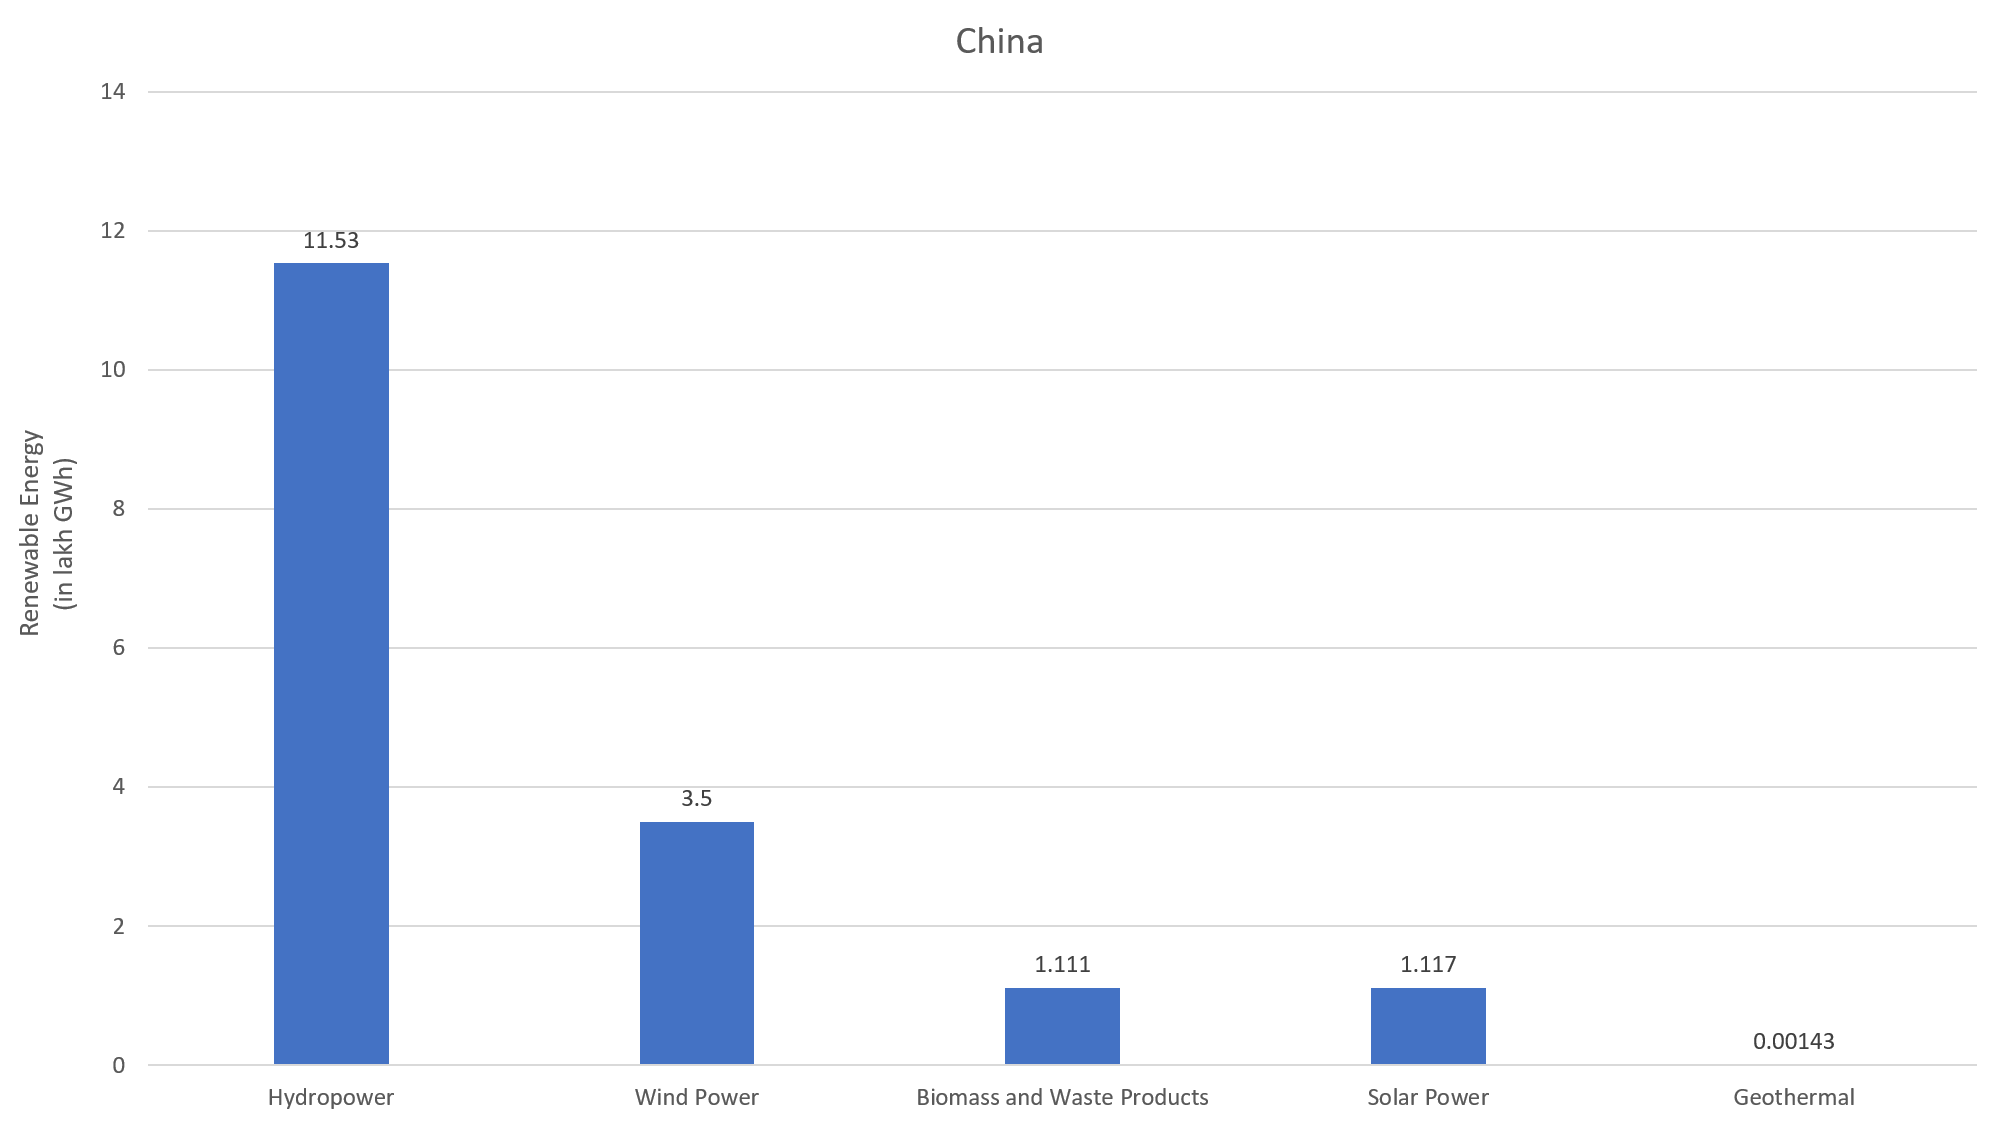
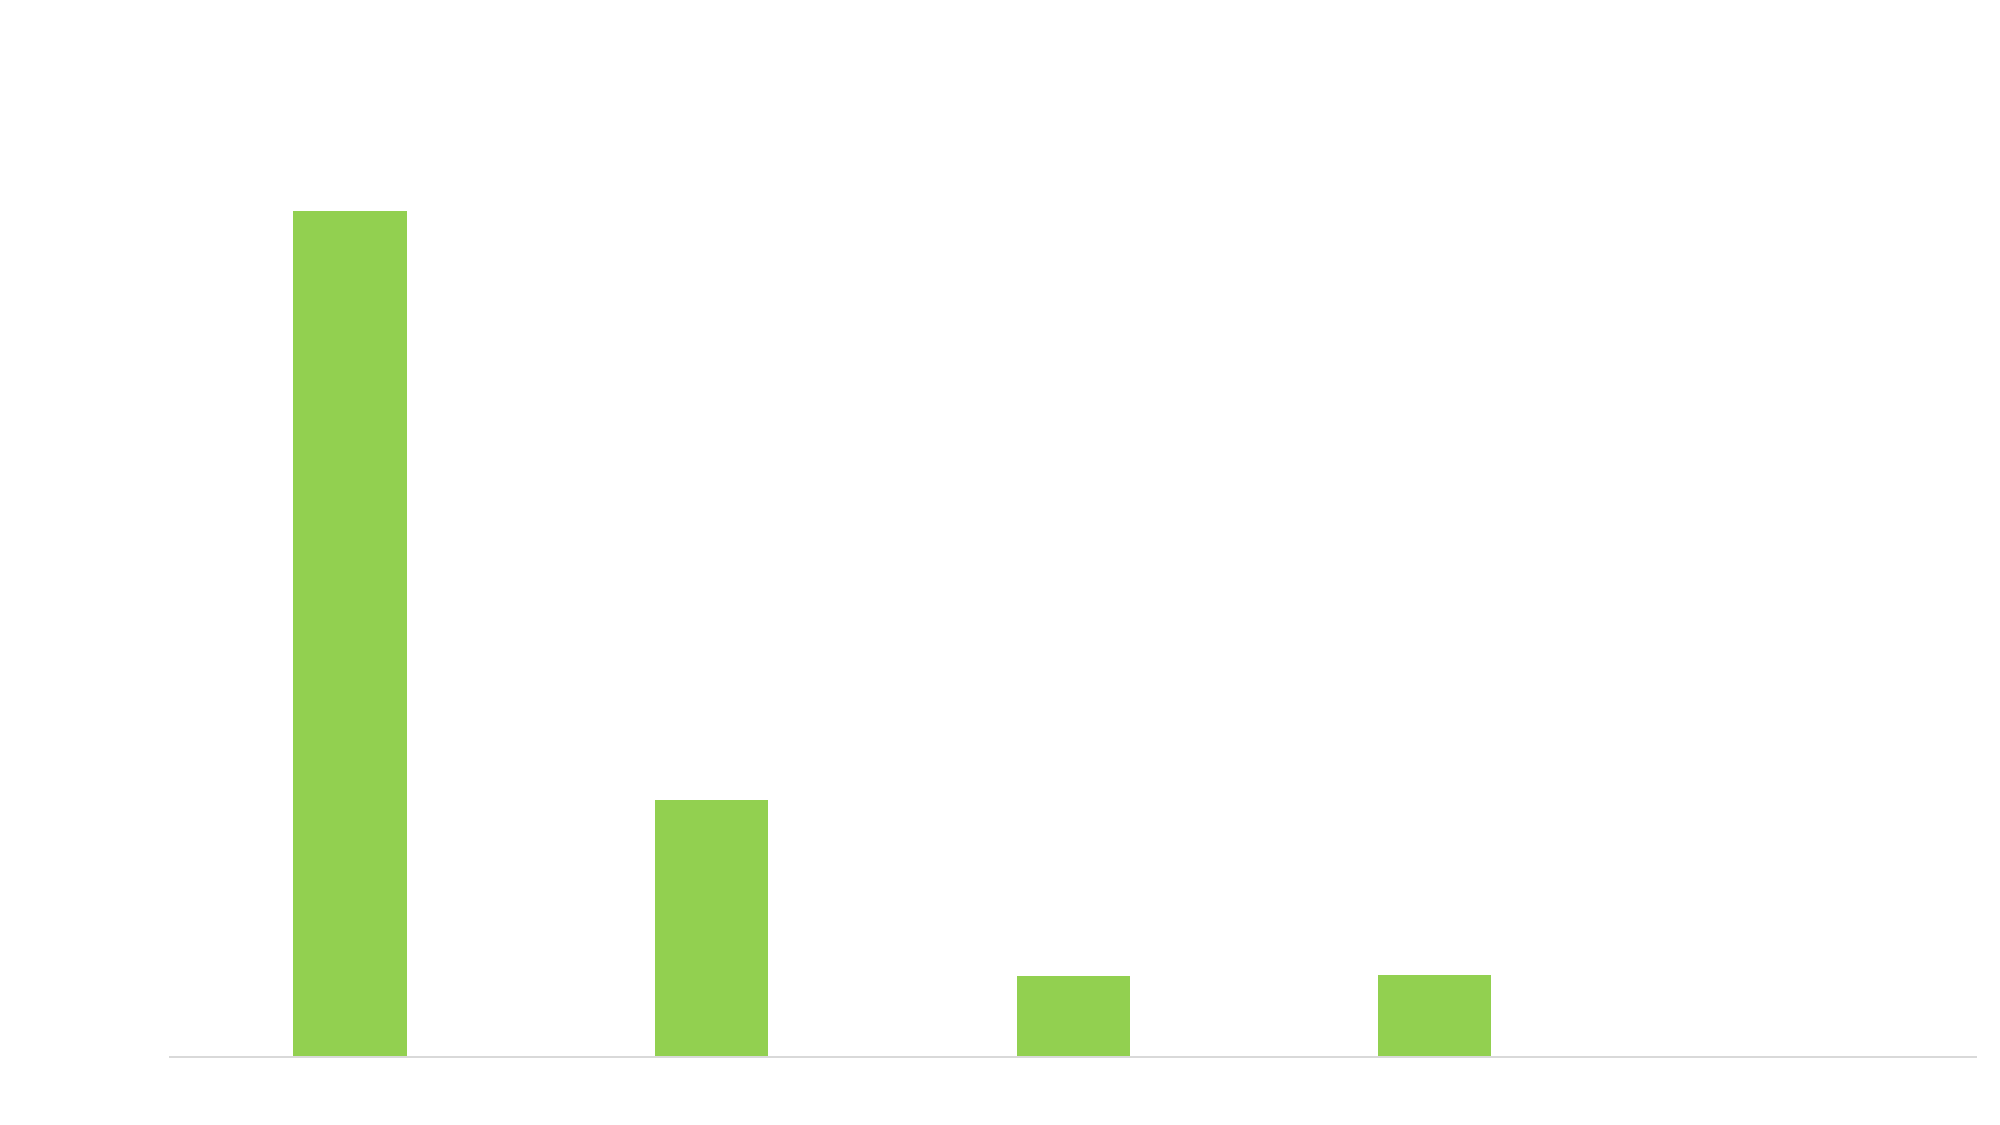
science update

Changed region(s): [[0.093, 0.1867, 0.992, 0.9956], [0.0, 0.3733, 0.062, 0.56], [0.465, 0.0311, 0.527, 0.0622]]

diff --git a/HTML/computer-hhw.html b/HTML/computer-hhw.html
@@ -1,23 +1,23 @@
 <!DOCTYPE html>
 <html lang="en">
 <head>
-    <meta charset="UTF-8">
-    <meta http-equiv="X-UA-Compatible" content="IE=edge">
-    <meta name="viewport" content="width=device-width, initial-scale=1.0">
-    <title>Science HHW</title>
+	<meta charset="UTF-8">
+	<meta http-equiv="X-UA-Compatible" content="IE=edge">
+	<meta name="viewport" content="width=device-width, initial-scale=1.0">
+	<title>Document</title>
 
 	<script src="https://kit.fontawesome.com/84c7f42d8e.js"></script>
-    <link rel="stylesheet" href="../SCSS/Subjects/science-hhw.css">
+    <link rel="stylesheet" href="../SCSS/Subjects/computer-hhw.css">
     <link rel="stylesheet" href="../SCSS/Subjects/hhw-header.css">
     <link rel="stylesheet" href="../SCSS/Subjects/hhw-footer.css">
 	<link rel="icon" href="../Images/G3.JPG">
     <link rel="stylesheet" href="../SCSS/scrollbar.css">
 </head>
 <body>
-    <div class="header">
-        <h1 class="header-text font-effect-neon">Science Holiday Homework</h1>
-    </div>
-    <div class="main">
+	<div class="header">
+		<h1 class="header-text font-effect-neon">Computer Holiday Homework</h1>
+	</div>
+	<div class="main">
 		<div class="q1">
 			<div class="heading head1">
 				The leading countries in renerwable energy production.
@@ -108,7 +108,7 @@
 				</dl>
 			</div>
 			<div class="img-cont us-graph">
-					<img src="../Images/us-graph.png"  alt="US Graph">
+					<img src="../Images/china-graph.png"  alt="US Graph">
 			</div>
 			<div class="txt-cont brazil">
 				<h2>Brazil</h2>
@@ -152,7 +152,7 @@
 				</dl>
 			</div>
 			<div class="img-cont brazil-graph">
-					<img src="../Images/brazil-graph.png" alt="Brazil Graph">
+					<img src="../Images/china-graph.png" alt="Brazil Graph">
 			</div>
 			<div class="txt-cont india">
 				<h2>India</h2>
@@ -196,7 +196,7 @@
 				</dl>
 			</div>
 			<div class="img-cont india-graph">
-					<img src="../Images/india-graph.png" alt="India Graph">
+					<img src="../Images/china-graph.png" alt="India Graph">
 			</div>
 		</div>
 	</div>

diff --git a/index.html b/index.html
@@ -8,6 +8,7 @@
 		
 		<script src="https://kit.fontawesome.com/84c7f42d8e.js"></script>
         <link rel="stylesheet" href="./SCSS/home.css">
+		<link rel="icon" href="../Images/G3.JPG">
         <link rel="stylesheet" href="./SCSS/scrollbar.css">
     </head>
     <body>
@@ -33,7 +34,7 @@
         
         <div class="buttons">
             <div class="rows">
-                <a href="https://www.youtube.com/watch?v=dQw4w9WgXcQ&ab_channel=RickAstleyVEVO" target="_blank" class="link">
+                <a href="./HTML/computer-hhw.html" target="_blank" class="link">
                     <div class="btn" id="btn-1">
                         Computer
                     </div>

diff --git a/SCSS/Subjects/computer-hhw.scss b/SCSS/Subjects/computer-hhw.scss
@@ -7,8 +7,9 @@
 body{
 
     .header{
-        background: url(../../Images/windmills2.jpg);
+        background: url(../../Images/windmill2.jpg);
     }
+	
     .main{
 		display: inline-block;
 		.q1{
@@ -113,7 +114,7 @@ body{
             margin-right: 4.5vw;
             background-image: linear-gradient(210deg, blueviolet, violet);
 			margin-top: 3vw;
-}
+		}
 		.india-graph{
             float: left;
             margin-left: 4.5vw;

diff --git a/SCSS/Subjects/computer-hhw.css b/SCSS/Subjects/computer-hhw.css
@@ -6,7 +6,7 @@
 }
 
 body .header {
-  background: url(../../Images/windmills2.jpg);
+  background: url(../../Images/windmill2.jpg);
 }
 
 body .main {
@@ -145,4 +145,4 @@ body .main .india-graph {
   background-image: linear-gradient(210deg, #E278ED, #6f14c5);
   margin-top: 3vw;
 }
-/*# sourceMappingURL=science-hhw.css.map */
+/*# sourceMappingURL=computer-hhw.css.map */

diff --git a/404.html b/404.html
@@ -7,6 +7,7 @@
     <title>Page not found!</title>
     
 	<script src="https://kit.fontawesome.com/84c7f42d8e.js"></script>
+	<link rel="icon" href="../Images/G3.JPG">
     <link rel="stylesheet" href="https://www.holiday-homework.ml/SCSS/error.css">
 </head>
 <body>

diff --git a/SCSS/scrollbar.css b/SCSS/scrollbar.css
@@ -12,3 +12,7 @@ body::-webkit-scrollbar-thumb {
 body::-webkit-scrollbar-thumb:hover {
   background-image: linear-gradient(#0c66cc, #008080); 
 }
+
+body{
+	user-select: none;
+}
